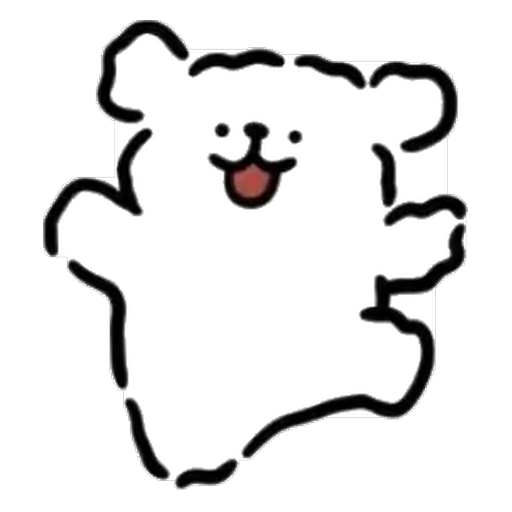
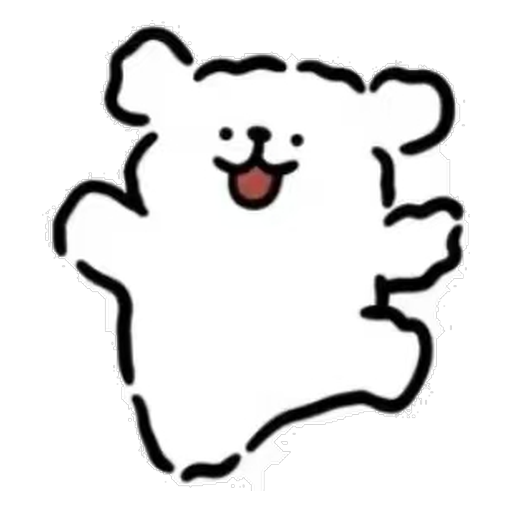
重抠一遍素材：修掉狗身被刷白、背景留毛边的问题
问题（用户指出）：
- 05 站站狗「扣多了，里面不是白色的」——狗身被刷成一片白；
- 03 圆滚狗「没扣干净」——描边外面留了一圈背景白；
- 其它几张也有类似毛边。

根因：
1) 第一步区域生长容差 12 太大。05 的红底到狗身棕之间是渐变过渡，
   生长会顺着渐变一路爬进狗肚子，狗身被当成背景，
   之后「去溢色」又把狗身刷成白色；
2) 算遮罩前的缩放用了 LANCZOS，会在描边外侧振铃，
   把纯色背景变成差一级的颜色；而纯色底是零容差判定，
   于是这一圈振铃全被当成狗，成品就是一圈背景色毛边。

改法（tools/cutout.py）：
- 纯色底的图（02/03/04/05/07/10）改走「零容差 + 剥毛边」：
  先只连通「和背景色一模一样」的像素（绝不啃到狗），
  再一圈一圈往外剥最多 4 层「差一点点」的像素，吃掉 JPEG 噪点毛边；
  剥不动会自己停（黑描边/肉色跟背景差得远）。
- 04 坐坐狗背景 254、狗身 255 只差一级，容差锁死为 0。
- 缩放改用面积平均（BOX）代替 LANCZOS，消除边缘振铃。
- 带渐变的图（01/06/08/09）仍走背景色地图那条路，只是把生长容差从 12 收到 5。

效果（同一套指标）：
- 05 狗身被刷白的像素 48272 → 0，漏扣 2.51% → 0.04%；
- 03 内部背景残留 4.93% → 1.65%，近背景不透明像素 8.30% → 3.00%；
- 07 内部残留 1.14% → 0.11%，近背景不透明 2.79% → 0.84%；
- 10 漏扣 0.41% → 0.11%。

顺带：preview-fix.png 是这次修前/修后的对比（蓝底看毛边），
preview-cut.png 仍是原图/成品对照，README 补充了新算法说明。

Changed region(s): [[0.0625, 0.0312, 0.9375, 0.9688], [0.4062, 0.2188, 0.5938, 0.4375]]

diff --git a/assets/dogs/blur.js b/assets/dogs/blur.js
@@ -1,7 +1,7 @@
 /* 自动生成，别手改 —— 改缩略图请跑 tools/make_blur.py */
 /* 贴图还没到位时画的极模糊占位（内联 data URL，零额外请求） */
 window.FRUIT_BLUR = {
[2 lines of base64/hex data omitted]
   cell: 32,
   cols: 10
 };

diff --git a/assets/dogs/parts.js b/assets/dogs/parts.js
@@ -1,3 +1,3 @@
 /* 自动生成，请勿手改 —— 由 tools/build_parts.py 生成
    parts: [ox, oy, s]，单位是「以 r 为 1」；rb: 碰撞包围圆半径（同样以 r 为单位） */
-window.SUIKA_PARTS = [{"parts":[[0.144,-0.289,0.29],[-0.34,0.17,0.201],[0.153,0.098,0.347],[0.331,0.149,0.311],[0.123,0.284,0.33],[0.331,0.284,0.257],[-0.106,-0.136,0.337],[0.403,-0.157,0.335],[0.645,0.17,0.292],[0.327,0.548,0.281],[-0.208,0.323,0.279],[-0.03,0.577,0.256],[0.11,-0.577,0.195],[-0.526,0.246,0.166],[0.594,0.459,0.126],[-0.081,-0.476,0.121],[0.352,-0.493,0.119],[-0.518,0.076,0.1]],"rb":0.96},{"parts":[[-0.306,-0.586,0.259],[-0.025,-0.34,0.322],[0.297,-0.34,0.288],[-0.306,-0.042,0.32],[0.068,-0.076,0.359],[0.297,-0.127,0.337],[-0.306,0.331,0.226],[-0.115,0.331,0.315],[0.297,0.331,0.221],[-0.246,0.62,0.318],[0.454,0.174,0.306],[0.518,-0.526,0.304],[0.17,-0.599,0.263],[0.633,-0.093,0.25],[-0.62,-0.106,0.233],[0.153,0.501,0.229],[0.526,0.471,0.212],[-0.463,-0.794,0.197]],"rb":1.116},{"parts":[[-0.335,-0.335,0.219],[-0.187,-0.335,0.336],[0.327,-0.335,0.278],[-0.335,0.017,0.347],[-0.055,0.047,0.374],[0.327,-0.242,0.3],[-0.335,0.327,0.211],[-0.089,0.327,0.345],[0.327,0.603,0.301],[0.318,0.059,0.413],[-0.2,-0.675,0.309],[0.607,-0.429,0.285],[-0.577,-0.234,0.262],[-0.671,0.115,0.251],[-0.217,0.65,0.242],[0.025,0.654,0.238],[-0.425,0.518,0.202],[-0.548,0.335,0.2]],"rb":1.028},{"parts":[[-0.335,-0.314,0.265],[-0.157,-0.314,0.35],[-0.335,0.276,0.324],[-0.017,0.098,0.365],[0.331,0.238,0.299],[-0.335,0.306,0.313],[-0.093,0.306,0.354],[0.331,0.386,0.311],[0.178,-0.212,0.527],[-0.386,-0.047,0.381],[-0.586,0.497,0.288],[-0.31,-0.633,0.282],[0.102,0.603,0.267],[-0.161,0.654,0.258],[-0.662,0.217,0.25],[0.611,0.526,0.249],[-0.594,-0.369,0.225],[0.616,0.144,0.203]],"rb":1.056},{"parts":[[-0.539,-0.221,0.278],[-0.335,-0.221,0.217],[0.662,-0.255,0.239],[-0.34,-0.008,0.269],[-0.144,0.017,0.306],[0.331,0.0,0.261],[-0.535,0.217,0.266],[-0.127,0.217,0.24],[0.412,0.217,0.229],[0.115,-0.149,0.284],[0.127,0.166,0.284],[-0.684,0.437,0.221],[-0.777,-0.365,0.216],[0.548,0.403,0.212],[0.42,-0.246,0.166],[-0.132,-0.297,0.166],[-0.607,-0.501,0.154],[0.594,-0.025,0.14]],"rb":1.075},{"parts":[[-0.191,-0.246,0.265],[-0.34,0.238,0.204],[-0.017,0.055,0.322],[0.331,0.034,0.244],[-0.34,0.297,0.221],[-0.153,0.238,0.308],[0.166,-0.212,0.335],[0.149,0.335,0.308],[-0.331,-0.017,0.217],[-0.191,0.543,0.172],[-0.51,0.442,0.161],[-0.56,0.276,0.142],[0.323,0.59,0.123],[0.735,0.183,0.115],[0.548,0.149,0.106],[-0.395,-0.416,0.096],[0.429,-0.42,0.093],[-0.365,0.518,0.089]],"rb":0.872},{"parts":[[-0.34,-0.293,0.213],[0.204,-0.293,0.323],[0.331,-0.293,0.203],[-0.34,-0.204,0.301],[0.055,-0.195,0.349],[0.331,-0.183,0.313],[0.089,0.284,0.242],[0.633,-0.072,0.283],[-0.628,-0.11,0.279],[-0.318,-0.505,0.276],[-0.093,0.123,0.224],[0.293,-0.607,0.207],[-0.042,-0.531,0.187],[0.03,0.522,0.138],[0.467,-0.48,0.116],[0.276,0.127,0.108],[-0.9,-0.042,0.106],[-0.166,0.335,0.106]],"rb":1.007},{"parts":[[-0.654,-0.352,0.286],[0.055,-0.234,0.238],[0.662,-0.369,0.286],[-0.34,0.187,0.274],[0.055,0.085,0.313],[0.331,0.183,0.273],[-0.34,0.225,0.227],[-0.17,0.225,0.31],[0.331,0.225,0.228],[-0.259,-0.076,0.416],[0.357,-0.089,0.403],[0.144,0.386,0.297],[0.459,0.425,0.2],[-0.433,0.446,0.191],[-0.611,0.229,0.185],[0.611,0.225,0.183],[-0.119,0.531,0.153],[-0.272,0.552,0.119]],"rb":1.044},{"parts":[[-0.34,-0.357,0.267],[-0.106,-0.318,0.348],[-0.34,0.076,0.339],[-0.212,0.076,0.368],[-0.382,0.314,0.286],[-0.021,0.314,0.331],[0.331,0.556,0.279],[0.132,-0.064,0.395],[-0.051,-0.662,0.289],[-0.522,0.565,0.284],[-0.565,-0.501,0.267],[-0.675,0.021,0.257],[0.616,0.671,0.255],[0.217,-0.45,0.246],[-0.565,-0.212,0.238],[-0.238,0.565,0.234],[0.059,0.637,0.234],[-0.667,0.28,0.2]],"rb":1.165},{"parts":[[-0.437,-0.217,0.22],[-0.161,-0.217,0.27],[0.331,-0.221,0.205],[-0.34,-0.123,0.279],[-0.098,0.025,0.303],[0.331,-0.081,0.276],[-0.34,0.212,0.207],[-0.106,0.212,0.292],[0.331,0.212,0.183],[0.11,-0.251,0.297],[0.17,0.31,0.293],[-0.437,0.395,0.217],[-0.611,-0.059,0.212],[0.599,-0.004,0.194],[-0.577,-0.391,0.191],[0.459,-0.382,0.187],[0.794,0.025,0.17],[-0.824,-0.034,0.163]],"rb":0.988}];
+window.SUIKA_PARTS = [{"parts":[[0.144,-0.289,0.29],[-0.34,0.17,0.201],[0.153,0.098,0.347],[0.331,0.149,0.311],[0.123,0.284,0.33],[0.331,0.284,0.257],[0.403,-0.157,0.335],[-0.106,-0.136,0.335],[0.645,0.17,0.292],[0.327,0.548,0.281],[-0.208,0.323,0.279],[-0.03,0.577,0.256],[0.115,-0.577,0.197],[-0.526,0.246,0.166],[0.594,0.459,0.126],[-0.085,-0.471,0.123],[0.352,-0.493,0.119],[-0.518,0.076,0.1]],"rb":0.96},{"parts":[[-0.293,-0.331,0.248],[-0.013,-0.331,0.316],[0.306,-0.331,0.279],[-0.293,0.0,0.318],[0.102,-0.059,0.358],[0.306,-0.098,0.338],[-0.293,0.331,0.219],[-0.106,0.331,0.324],[0.306,0.331,0.217],[-0.2,0.641,0.327],[0.476,0.195,0.297],[0.531,-0.505,0.262],[-0.221,-0.569,0.255],[0.645,-0.085,0.255],[0.174,-0.586,0.252],[-0.603,-0.089,0.223],[0.17,0.501,0.223],[-0.429,-0.726,0.215]],"rb":1.058},{"parts":[[-0.331,-0.34,0.218],[-0.204,-0.34,0.326],[0.378,-0.34,0.266],[-0.331,0.047,0.346],[-0.132,0.034,0.375],[0.327,-0.314,0.28],[-0.331,0.331,0.209],[-0.115,0.331,0.339],[0.331,0.684,0.234],[0.242,0.081,0.366],[0.174,0.51,0.314],[-0.556,-0.217,0.283],[-0.238,-0.667,0.283],[0.641,-0.446,0.278],[-0.667,0.136,0.232],[-0.238,0.65,0.225],[0.093,-0.476,0.223],[-0.543,0.335,0.199]],"rb":1.059},{"parts":[[-0.335,-0.314,0.265],[-0.157,-0.314,0.35],[-0.335,0.276,0.324],[-0.017,0.098,0.365],[0.331,0.238,0.299],[-0.335,0.306,0.313],[-0.093,0.306,0.354],[0.331,0.386,0.311],[0.178,-0.212,0.527],[-0.386,-0.047,0.381],[-0.586,0.497,0.288],[-0.31,-0.633,0.282],[0.102,0.603,0.267],[-0.161,0.654,0.258],[-0.662,0.217,0.25],[0.611,0.526,0.249],[-0.594,-0.369,0.225],[0.616,0.144,0.203]],"rb":1.056},{"parts":[[-0.493,-0.225,0.274],[-0.335,-0.225,0.215],[0.675,-0.267,0.237],[-0.34,0.127,0.264],[-0.106,0.072,0.308],[0.331,0.217,0.259],[-0.429,0.217,0.264],[-0.225,0.217,0.287],[0.331,0.221,0.225],[0.191,-0.008,0.396],[-0.633,0.386,0.252],[0.034,0.357,0.248],[-0.739,-0.348,0.246],[0.535,0.382,0.22],[-0.123,-0.259,0.208],[-0.616,0.025,0.144],[-0.357,0.471,0.132],[-0.539,-0.497,0.128]],"rb":1.063},{"parts":[[0.187,-0.246,0.265],[-0.34,0.238,0.204],[-0.017,0.059,0.322],[0.331,0.03,0.245],[-0.34,0.297,0.221],[-0.153,0.238,0.308],[-0.174,-0.225,0.326],[0.153,0.335,0.31],[-0.382,0.03,0.194],[-0.195,0.543,0.171],[-0.51,0.442,0.161],[-0.56,0.276,0.142],[0.403,-0.399,0.124],[0.323,0.599,0.119],[0.743,0.187,0.117],[0.548,0.144,0.106],[0.204,-0.514,0.092],[-0.365,0.518,0.089]],"rb":0.883},{"parts":[[-0.34,-0.293,0.213],[0.204,-0.293,0.323],[0.331,-0.293,0.206],[-0.34,-0.208,0.298],[-0.004,-0.217,0.344],[0.331,-0.204,0.31],[0.047,0.284,0.2],[-0.624,-0.11,0.284],[0.641,-0.081,0.279],[-0.306,-0.505,0.261],[-0.072,0.123,0.221],[0.297,-0.603,0.21],[-0.004,-0.56,0.161],[0.149,0.093,0.142],[0.072,0.484,0.133],[0.2,0.416,0.1],[0.004,0.603,0.098],[0.471,-0.484,0.097]],"rb":0.926},{"parts":[[-0.65,-0.348,0.288],[-0.042,-0.234,0.24],[0.662,-0.374,0.287],[-0.34,0.187,0.274],[-0.042,0.085,0.313],[0.331,0.183,0.272],[-0.34,0.225,0.227],[-0.102,0.225,0.31],[0.331,0.225,0.228],[0.229,-0.072,0.425],[-0.361,-0.089,0.409],[0.157,0.399,0.281],[-0.301,0.463,0.203],[0.459,0.425,0.2],[0.603,0.221,0.189],[-0.616,0.234,0.181],[-0.514,0.399,0.162],[-0.102,0.539,0.149]],"rb":1.048},{"parts":[[-0.34,-0.357,0.267],[-0.106,-0.318,0.348],[-0.34,0.076,0.339],[-0.212,0.076,0.368],[-0.382,0.314,0.298],[-0.021,0.314,0.331],[0.331,0.552,0.281],[0.132,-0.064,0.398],[-0.607,0.51,0.296],[-0.051,-0.662,0.289],[-0.565,-0.501,0.267],[0.611,0.667,0.258],[-0.675,0.021,0.257],[0.195,-0.493,0.246],[-0.565,-0.212,0.238],[0.059,0.637,0.234],[-0.234,0.573,0.225],[-0.34,-0.65,0.174]],"rb":1.163},{"parts":[[-0.391,-0.225,0.212],[-0.153,-0.225,0.262],[0.331,-0.225,0.198],[-0.344,-0.119,0.275],[-0.076,0.047,0.305],[0.331,-0.093,0.274],[-0.34,0.314,0.205],[-0.085,0.217,0.292],[0.331,0.344,0.181],[0.208,0.157,0.341],[0.11,-0.259,0.277],[-0.62,-0.081,0.184],[-0.543,-0.374,0.183],[-0.45,0.136,0.181],[0.599,-0.017,0.17],[0.811,0.03,0.167],[0.446,-0.386,0.166],[-0.488,0.459,0.159]],"rb":0.979}];

diff --git a/README.md b/README.md
@@ -49,7 +49,8 @@ leaderboard.min.js    排行榜（TinyWebDB 静态接口）
 physics.test.js       物理手感自检
 gameplay.test.js      玩法自检（复活系统 / 犬神清场）
 preview.png           游戏预览
-preview-cut.png       抠图前后对照（上排原图 / 下排抠好的成品）
+preview-cut.png       抠图对照（上排原图 / 下排抠好的成品）
+preview-fix.png       这次修抠图的前后对比（上排修前 / 下排修后，蓝底看毛边）
 assets/dogs/          10 级素材：*.png（抠好的透明原图）、*.webp（运行时用）
                       parts.js（碰撞轮廓，自动生成）
                       blur.js（内联模糊占位图，自动生成）
@@ -79,9 +80,20 @@ node gameplay.test.js
 原图放在 `tools/src/`，按「从小到大」命名 `01-raw … 10-raw`。
 `tools/cutout.py` 会一次性做掉**抠图 + 去水印 + 裁切 + 居中**：
 
-- **抠图**：先从四条边往里做区域生长（只跟「已经判定为背景的邻居」比颜色，所以黄色渐变背景也能吃干净），
-  再用这块背景拟合一张平滑的「背景色地图」，按「离背景色多远」判定前景；
-  然后把断开的线稿用形态学闭运算接起来、把肚子灌成实心（不然线稿狗会变成空心线框）。
+- **抠图**：分两条路。
+  - 底色是**一整块纯色**的图（02/03/04/05/07/10）：只把「和背景色**一模一样**」的像素从四条边连通，
+    再往外剥最多 4 层「跟背景色差一点点」的像素用来吃掉 JPEG 噪点毛边。
+    容差必须小到接近 0，否则会出事：
+    - 04 坐坐狗背景 254、狗身 255 只差一级，容差一大狗身就被当背景吃掉；
+    - 05 站站狗背景是红、狗身是棕，两者之间是渐变过渡，容差稍大就会顺着渐变爬进狗肚子，
+      狗身最后被"去溢色"刷成一片白 —— 这就是之前「扣多了、里面不是白色」的根因。
+  - 底色**带渐变**的图（01/06/08/09）：先从四条边做区域生长框出背景，
+    再用这块背景拟合一张平滑的「背景色地图」，按「离背景色多远」判定前景。
+  - 两条路最后都会把断开的线稿用形态学闭运算接起来、把肚子灌成实心
+    （不然线稿狗会变成空心线框）。
+- **缩放方式**：算遮罩前要先缩到工作分辨率，这里用**面积平均**而不是 LANCZOS ——
+  LANCZOS 会在边缘外侧振铃，把纯色背景变成差一级的颜色，纯色底判定就会把这一圈振铃当成狗，
+  成品上就是描边外面一圈背景色的毛边。
 - **去水印**：水印通常离狗很远、颜色又跟背景不一样，所以它既不会被吃进背景、也连不到狗身上 ——
   最后只保留最大的那块 + 离它够近的碎块，水印自然就被扔掉了。
 
@@ -89,6 +101,7 @@ node gameplay.test.js
 
 ```bash
 python tools/cutout.py --preview          # 抠图（--preview 顺便导出 preview-cut.png 对照表）
+                                          # 想只重跑一只： python tools/cutout.py --only 05-stand
 python tools/optimize_sprites.py          # PNG → WebP（按每级的显示尺寸裁到刚好）
 python tools/build_parts.py --grid 3 --min-fill 0.30 --max-parts 18   # 按轮廓生成 parts.js 碰撞箱
 python tools/make_blur.py                 # 生成 blur.js 占位图
